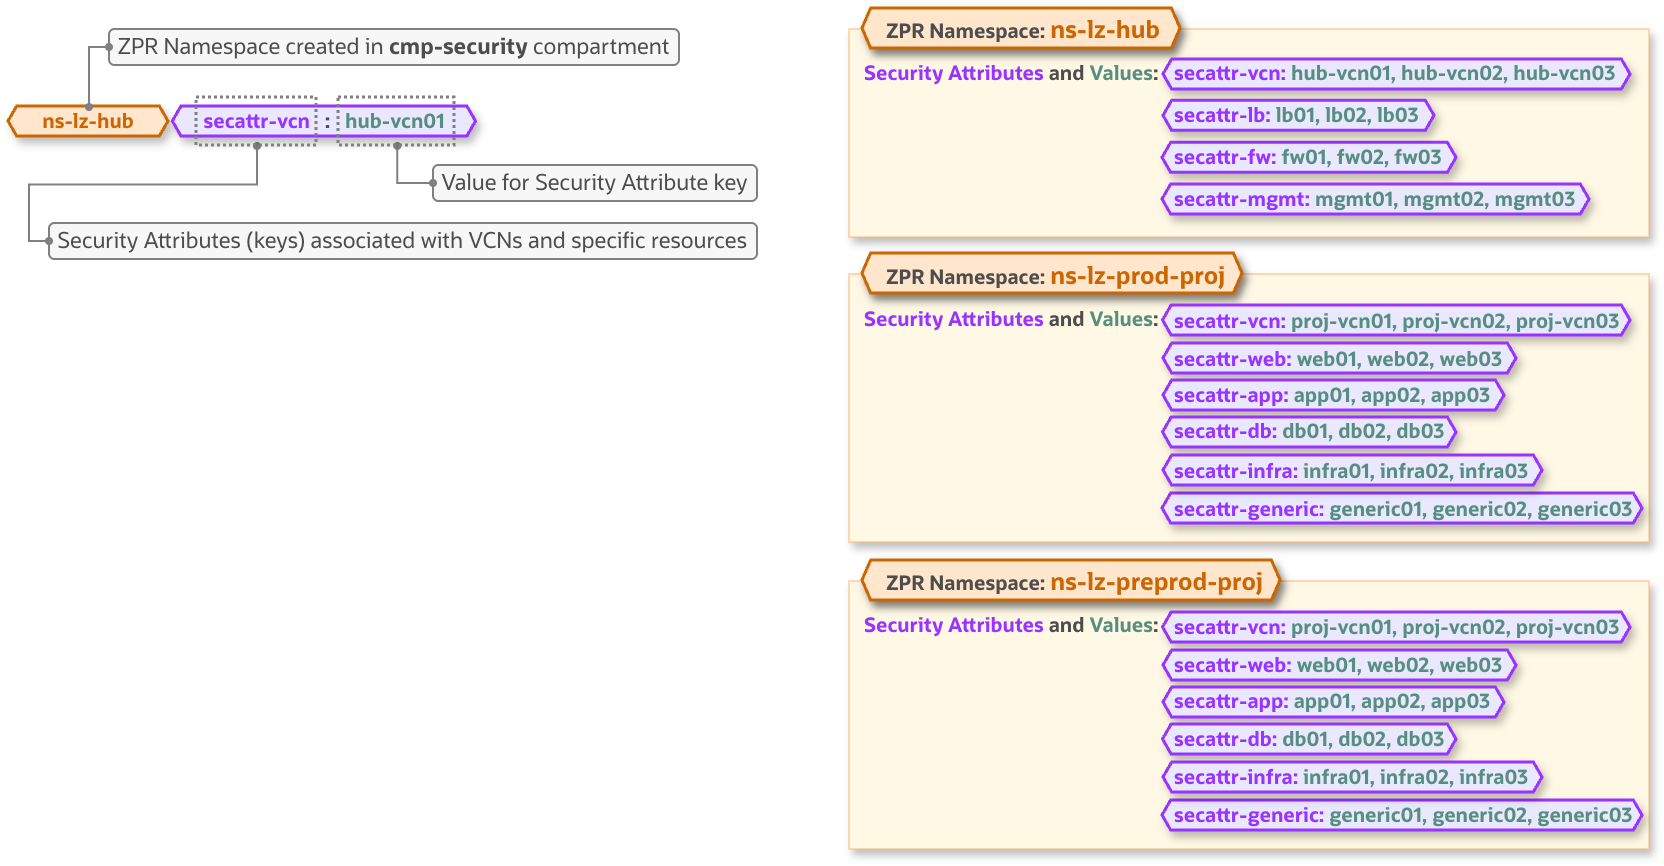
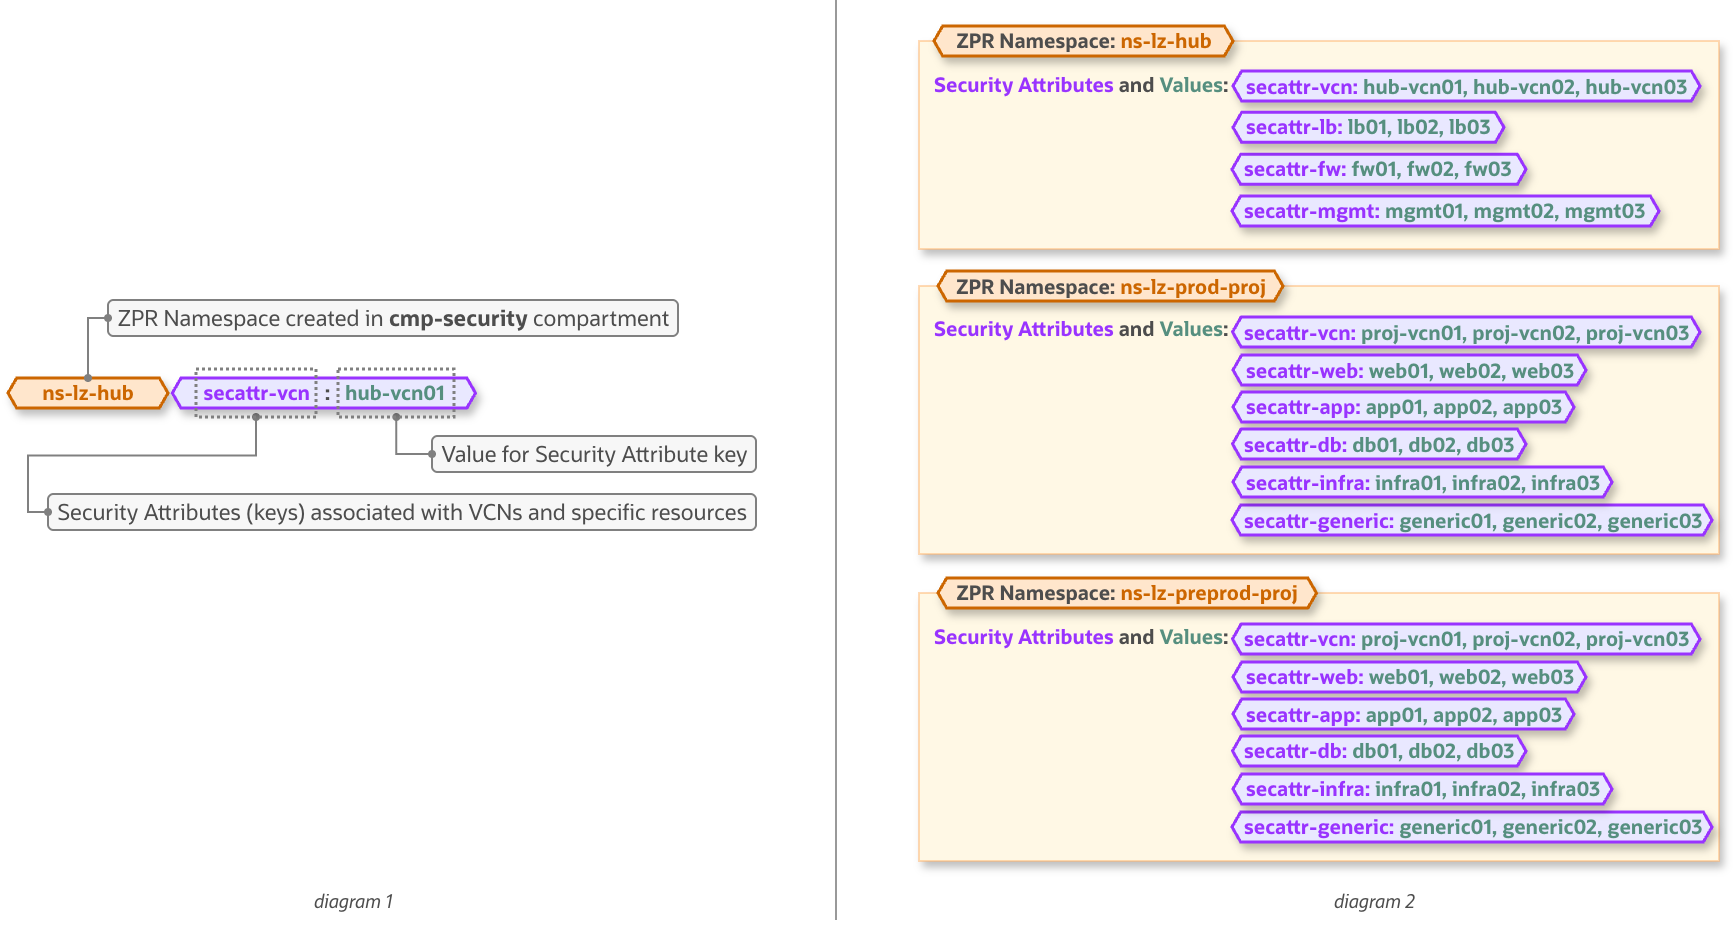
update

diff --git a/readme.md b/readme.md
@@ -22,7 +22,7 @@ For communication between two endpoints to succeed, all applicable network secur
 The animations below illustrate this multi-layer enforcement model.
 
 **First use case - communication allowed:**
-The Security team allows communication between the two endpoints through ZPR, while routing, Security Lists or NSGs, and OCI Network Firewall also permit the traffic. Because all applicable controls allow the communication - a logical AND, the destination endpoint can be reached.
+The Security team allows communication between the two endpoints through ZPR, while routing, Security Lists or NSGs, and Network Firewall also permit the traffic. Because all applicable controls allow the communication - a logical AND, the destination endpoint can be reached.
 
 &nbsp;
 <img src="./zpr_allow.gif" width="900" height="value">
@@ -43,7 +43,7 @@ A ZPR Security Attribute Namespace is a logical container for a set of related s
 
 A Security Attribute is a label that can be assigned to supported OCI resources and referenced in ZPR policies to control communication between endpoints based on their assigned attributes.
 
-The diagrams below illustrate the **ZPR Namespace and Security Attribute structure** and show the exact configuration defined in `oneoe_zpr.json`, including each Namespace and the Security Attributes and their corresponding values contained within it.
+The diagrams below illustrate the ZPR Namespace and Security Attribute structure (*diagram 1*) and the corresponding Namespaces and the Security Attributes they contain (*diagram 2*), as defined in the `oneoe_zpr.json` file.
 
 <img src="./zpr_struc.png" width="900" height="value">
 
